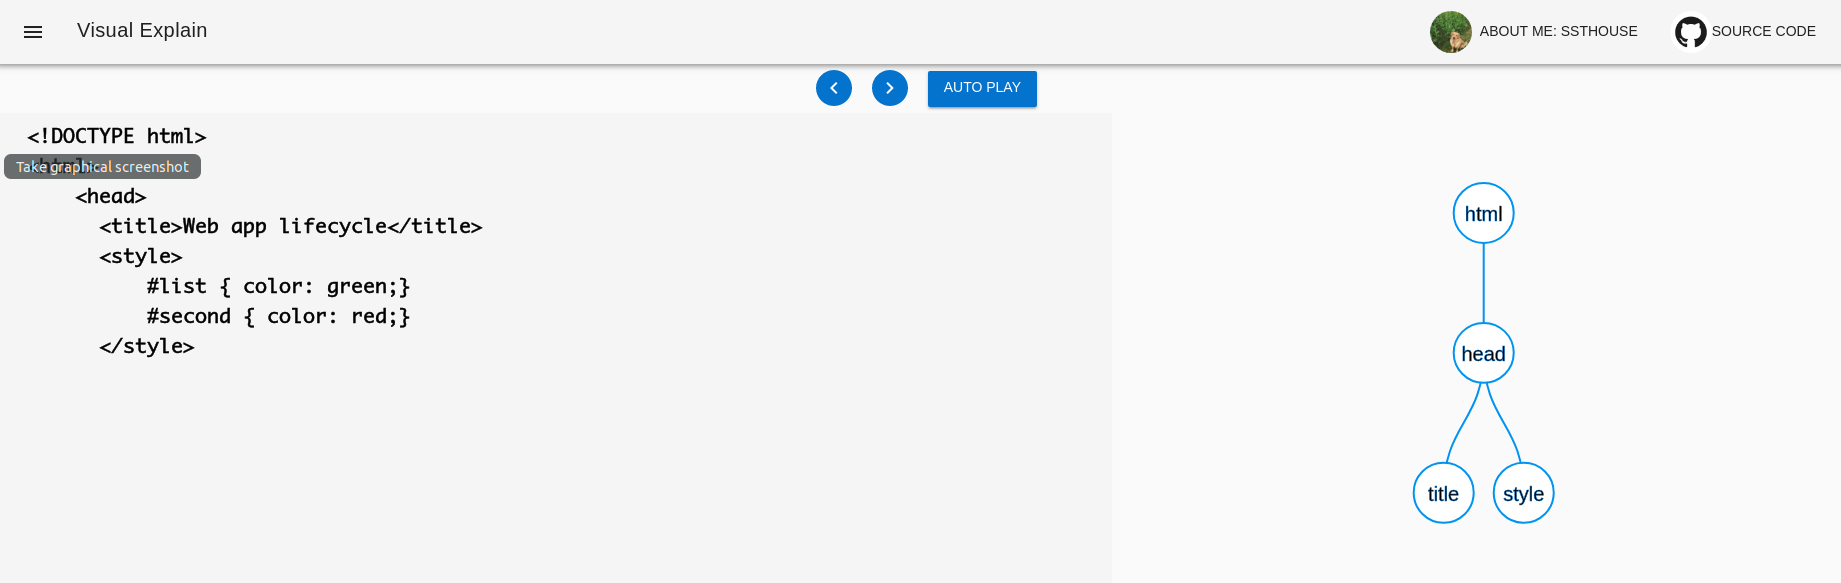
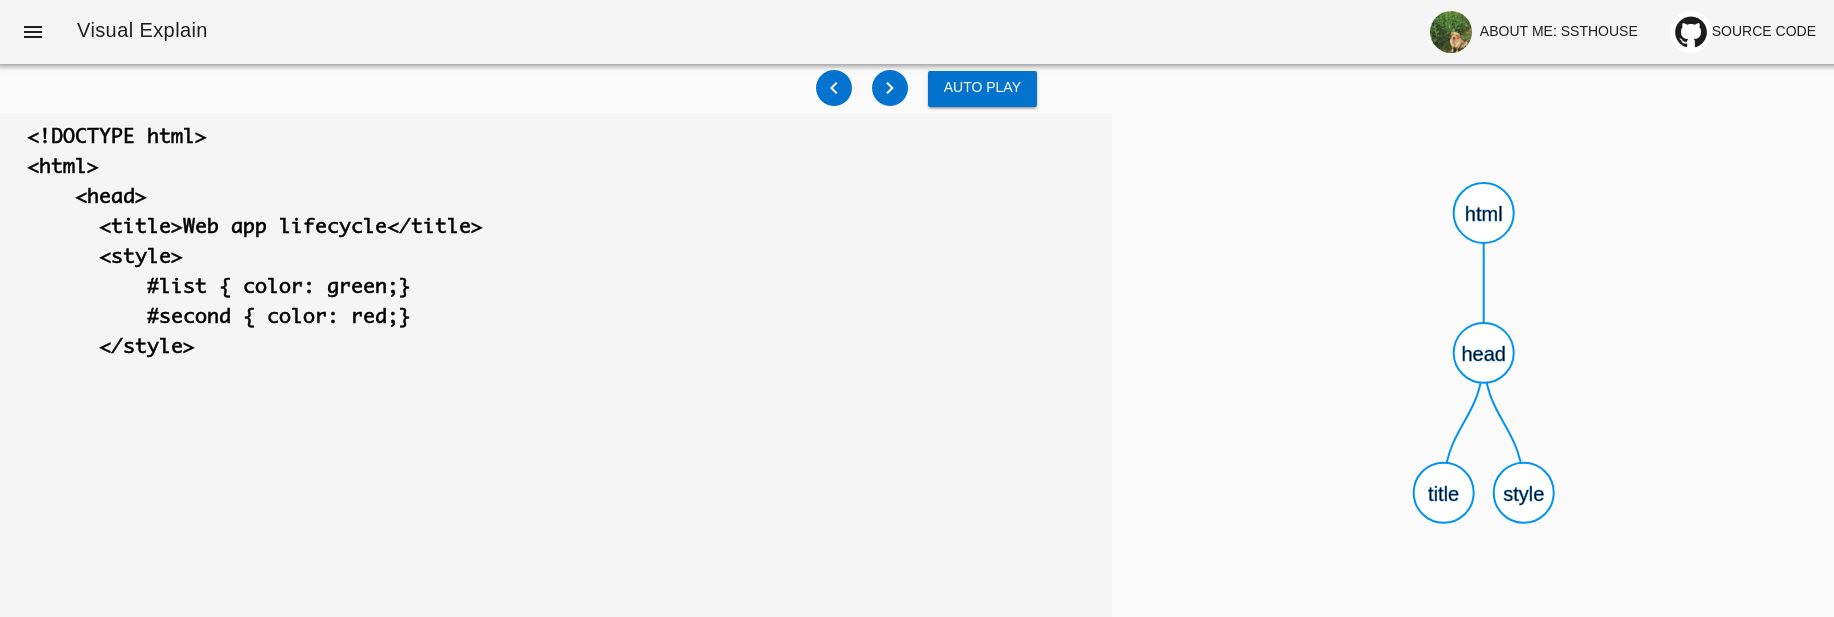
Update pics

diff --git a/dom-render/blog.md b/dom-render/blog.md
@@ -1,31 +1,137 @@
-# 可视化讲解 DOM 渲染过程
+# 可视化讲解 DOM 构建过程
 
 ## 前言
 
-最近在看 <<Secrets of the JavaScript Ninja>>, 书中第二章讲到 DOM 的渲染流程. 记得我之前也为理解 DOM 渲染流程查阅过数次资料, 虽然每次查阅完都觉得 DOM 渲染流程很简单, 看完便懂, 但是懂了又忘还是让人有些头疼.
+最近在看 *Secrets of the JavaScript Ninja*, 书中第二章讲到 DOM 的构建流程. 
 
-所以为了给自己加深印象, 也为了为大家提供一个可视化的理解 DOM 渲染过程的方式, 笔者制作了一个简单的网页来动态演示 DOM 渲染过程. 希望能给大家带来些帮助.
+记得我之前也为理解 DOM 构建流程查阅过数次资料, 虽然每次查阅完都觉得 DOM 构建流程很简单, 看完便懂, 但是懂了又忘还是让人有些头疼.
+
+为了给自己加深印象, 也为了为大家提供一个可视化的理解 DOM 构建过程的方式, 笔者制作了一个简单的网页来动态演示 DOM 构建过程. 希望能给大家带来一些帮助.
 
 ## 效果
 
-这个网页展示了一个简单的 HTML 页面的 DOM 渲染过程, 用户可以点击前进,后退按钮, 页面左侧会显示出当前的 HTML 代码, 右侧则会显示出实时的 DOM 元素的树状结构:
+### 前进, 后退
 
-### 点击 前进, 后退按钮
+网页展示了一个简单的 HTML 页面的 DOM 渲染过程. 用户点击**前进**,**后退**按钮时, 页面左侧会显示出当前的 HTML 代码, 右侧则会显示出实时的 DOM 结构图:
 
 ![forward and backword](https://raw.githubusercontent.com/ssthouse/d3-blog/master/dom-render/img/forward_and_backword.gif)
 
 ### 自动播放
 
+点击 `Auto Play` 按钮, 页面会自动播放页面的整个构建过程:
+
 ![auto play](https://raw.githubusercontent.com/ssthouse/d3-blog/master/dom-render/img/autoplay.gif)
 
-## DOM 渲染过程
+## DOM 构建过程
 
-DOM 渲染过程其实非常简单, 当浏览器拿到 HTML 文件时, 按照从上往下的顺序依次渲染. 在渲染过程中可能会遇到以下几种情况:
+### DOM 元素的作用 & 基本构建过程:
 
-- 遇到普通的 DOM 元素标签 ==> 创建 DOM 元素
-- 遇到 `<head>` 或 `<style>` 标签, 正常解析, 不创建 DOM 元素
-- 遇到 `<script>` 标签, 执行 script 标签中代码, 这一步中的 JS 代码可以访问在该`<script>` 标签之前创建好的 DOM 元素, 并且可以动态的向起添加或删除 DOM 元素
+这里直接引用一下原文:
 
-下面用可视化讲解中的步骤依次讲解:
+> The goal of this page-building phase is to set up the UI of a web application, and this is done in two distinct steps:
+> 1 Parsing the HTML and building the Document Object Model (DOM)
+> 2 Executing JavaScript code
+> Step 1 is performed when the browser is processing HTML nodes, and step 2 is > performed whenever a special type of HTML element—the script element (that > contains or
+> refers to JavaScript code)—is encountered. During the page-building phase, the browser
+> can switch between these two steps as many times as necessary.
+
+浏览器 **页面构建** 步骤的目的是为 UI 渲染做准备, **页面构建**是由下面两部分购成的:
+
+- 解析 HTML 节点, 并且构建 DOM 元素
+- 执行 JavaScript 代码
+
+其中第一步在浏览器解析到 HTML 节点时执行, 第二步在解析到 **script** 标签时执行. 在页面构建的过程中, 以上两步可以无数次的交替执行.
+
+> It’s important to emphasize that, although the HTML and the DOM are closely
+> linked, with the DOM being constructed from HTML, they aren’t one and the same.
+> You should think of the HTML code as a blueprint the browser follows when > constructing the initial DOM—the UI—of the page. The browser can even fix > problems that it finds with this blueprint in order to create a valid DOM.
+
+需要注意的是, 虽然 HTML 和 DOM 两者关系紧密(DOM 是由 HTML 文件构建而来), 但他们并不是相同的. 你应该将 HTML 看作是浏览器用来渲染 DOM 元素(页面 UI) 的蓝图. 浏览器甚至可以可以修复这个蓝图(HTML)中的问题, 并构建出有效的 DOM.
+
+### 下面用可视化讲解中的步骤依次讲解:
+
+#### 首先看看我们想要渲染的 HTML 代码:
+
+```html
+<!DOCTYPE html>
+<html>
+    <head>
+      <title>Web app lifecycle</title>
+      <style>
+          #list { color: green;}
+          #second { color: red;}
+      </style>
+    </head>
+    <body>
+        <h1>head one</h1>
+        <ul id="list"></ul>
+        <script>
+            var liElement = document.createElement("li");
+            liElement.textContent = 'I am a li';
+            document.getElementById('list').appendChild(liElement);
+        </script>
+    </body>
+</html>
+```
+
+#### 接下来按照浏览器的构建顺序来看:
+
+首先浏览器遇到下面这段代码, 解析出 **html** 节点作为 DOM 的根节点:
+
+```html
+<!DOCTYPE html>
+<html>
+```
+
+![step 1](https://raw.githubusercontent.com/ssthouse/d3-blog/master/dom-render/img/step1.png)
+
+接下来是 `<head>` 标签, 将其放置在 **html** 节点下:
+
+![step 2](https://raw.githubusercontent.com/ssthouse/d3-blog/master/dom-render/img/step2.png)
+
+继续解析, 遇到 `<title>` 标签, 因为其是 `<head>` 的子标签, 故将其放置在 **head** 节点下.
+
+![step 3](https://raw.githubusercontent.com/ssthouse/d3-blog/master/dom-render/img/step3.png)
+
+然后是 `<style>` 标签, 类似的, 放在 **head** 节点下:
+
+```html
+<style>
+    #list { color: green;}
+    #second { color: red;}
+</style>
+```
+
+![step 4](https://raw.githubusercontent.com/ssthouse/d3-blog/master/dom-render/img/step4.png)
+
+接下来解析到 `<body>` 标签, 因其为 `<html>` 的子标签, 故将其放置在 **html** 节点下:
+
+![step 5](https://raw.githubusercontent.com/ssthouse/d3-blog/master/dom-render/img/step5.png)
+
+然后是 `<h1>` 标签, 放置在 **body** 节点下:
+
+![step 6](https://raw.githubusercontent.com/ssthouse/d3-blog/master/dom-render/img/step6.png)
+
+继续, `<ul>` 标签, 同样的, 放置在 **body** 节点下:
+
+![step 7](https://raw.githubusercontent.com/ssthouse/d3-blog/master/dom-render/img/step7.png)
+
+接下来, 浏览器遇到了 `<script>` 标签, 根据前面的知识我们知道, 浏览器会停下来并执行`<script>` 中的代码. 所以下面这段代码会被立即执行:
+
+```html
+<script>
+    var liElement = document.createElement("li");
+    liElement.textContent = 'I am a li';
+    document.getElementById('list').appendChild(liElement);
+</script>
+```
+
+这段代码的逻辑是: 向 **id** 为 **list** 的 DOM 节点添加一个 **li** 作为子元素, 故执行完成后 DOM 树会是这样:
+
+![step 7](https://raw.githubusercontent.com/ssthouse/d3-blog/master/dom-render/img/step8.png)
+
+最后, 浏览器会解析到 `<body/></html>` 等标签, 结束解析过程. 最终我们得到的 DOM 结构如图:
+
+![step 9](https://raw.githubusercontent.com/ssthouse/d3-blog/master/dom-render/img/step9.png)
 
 ####
